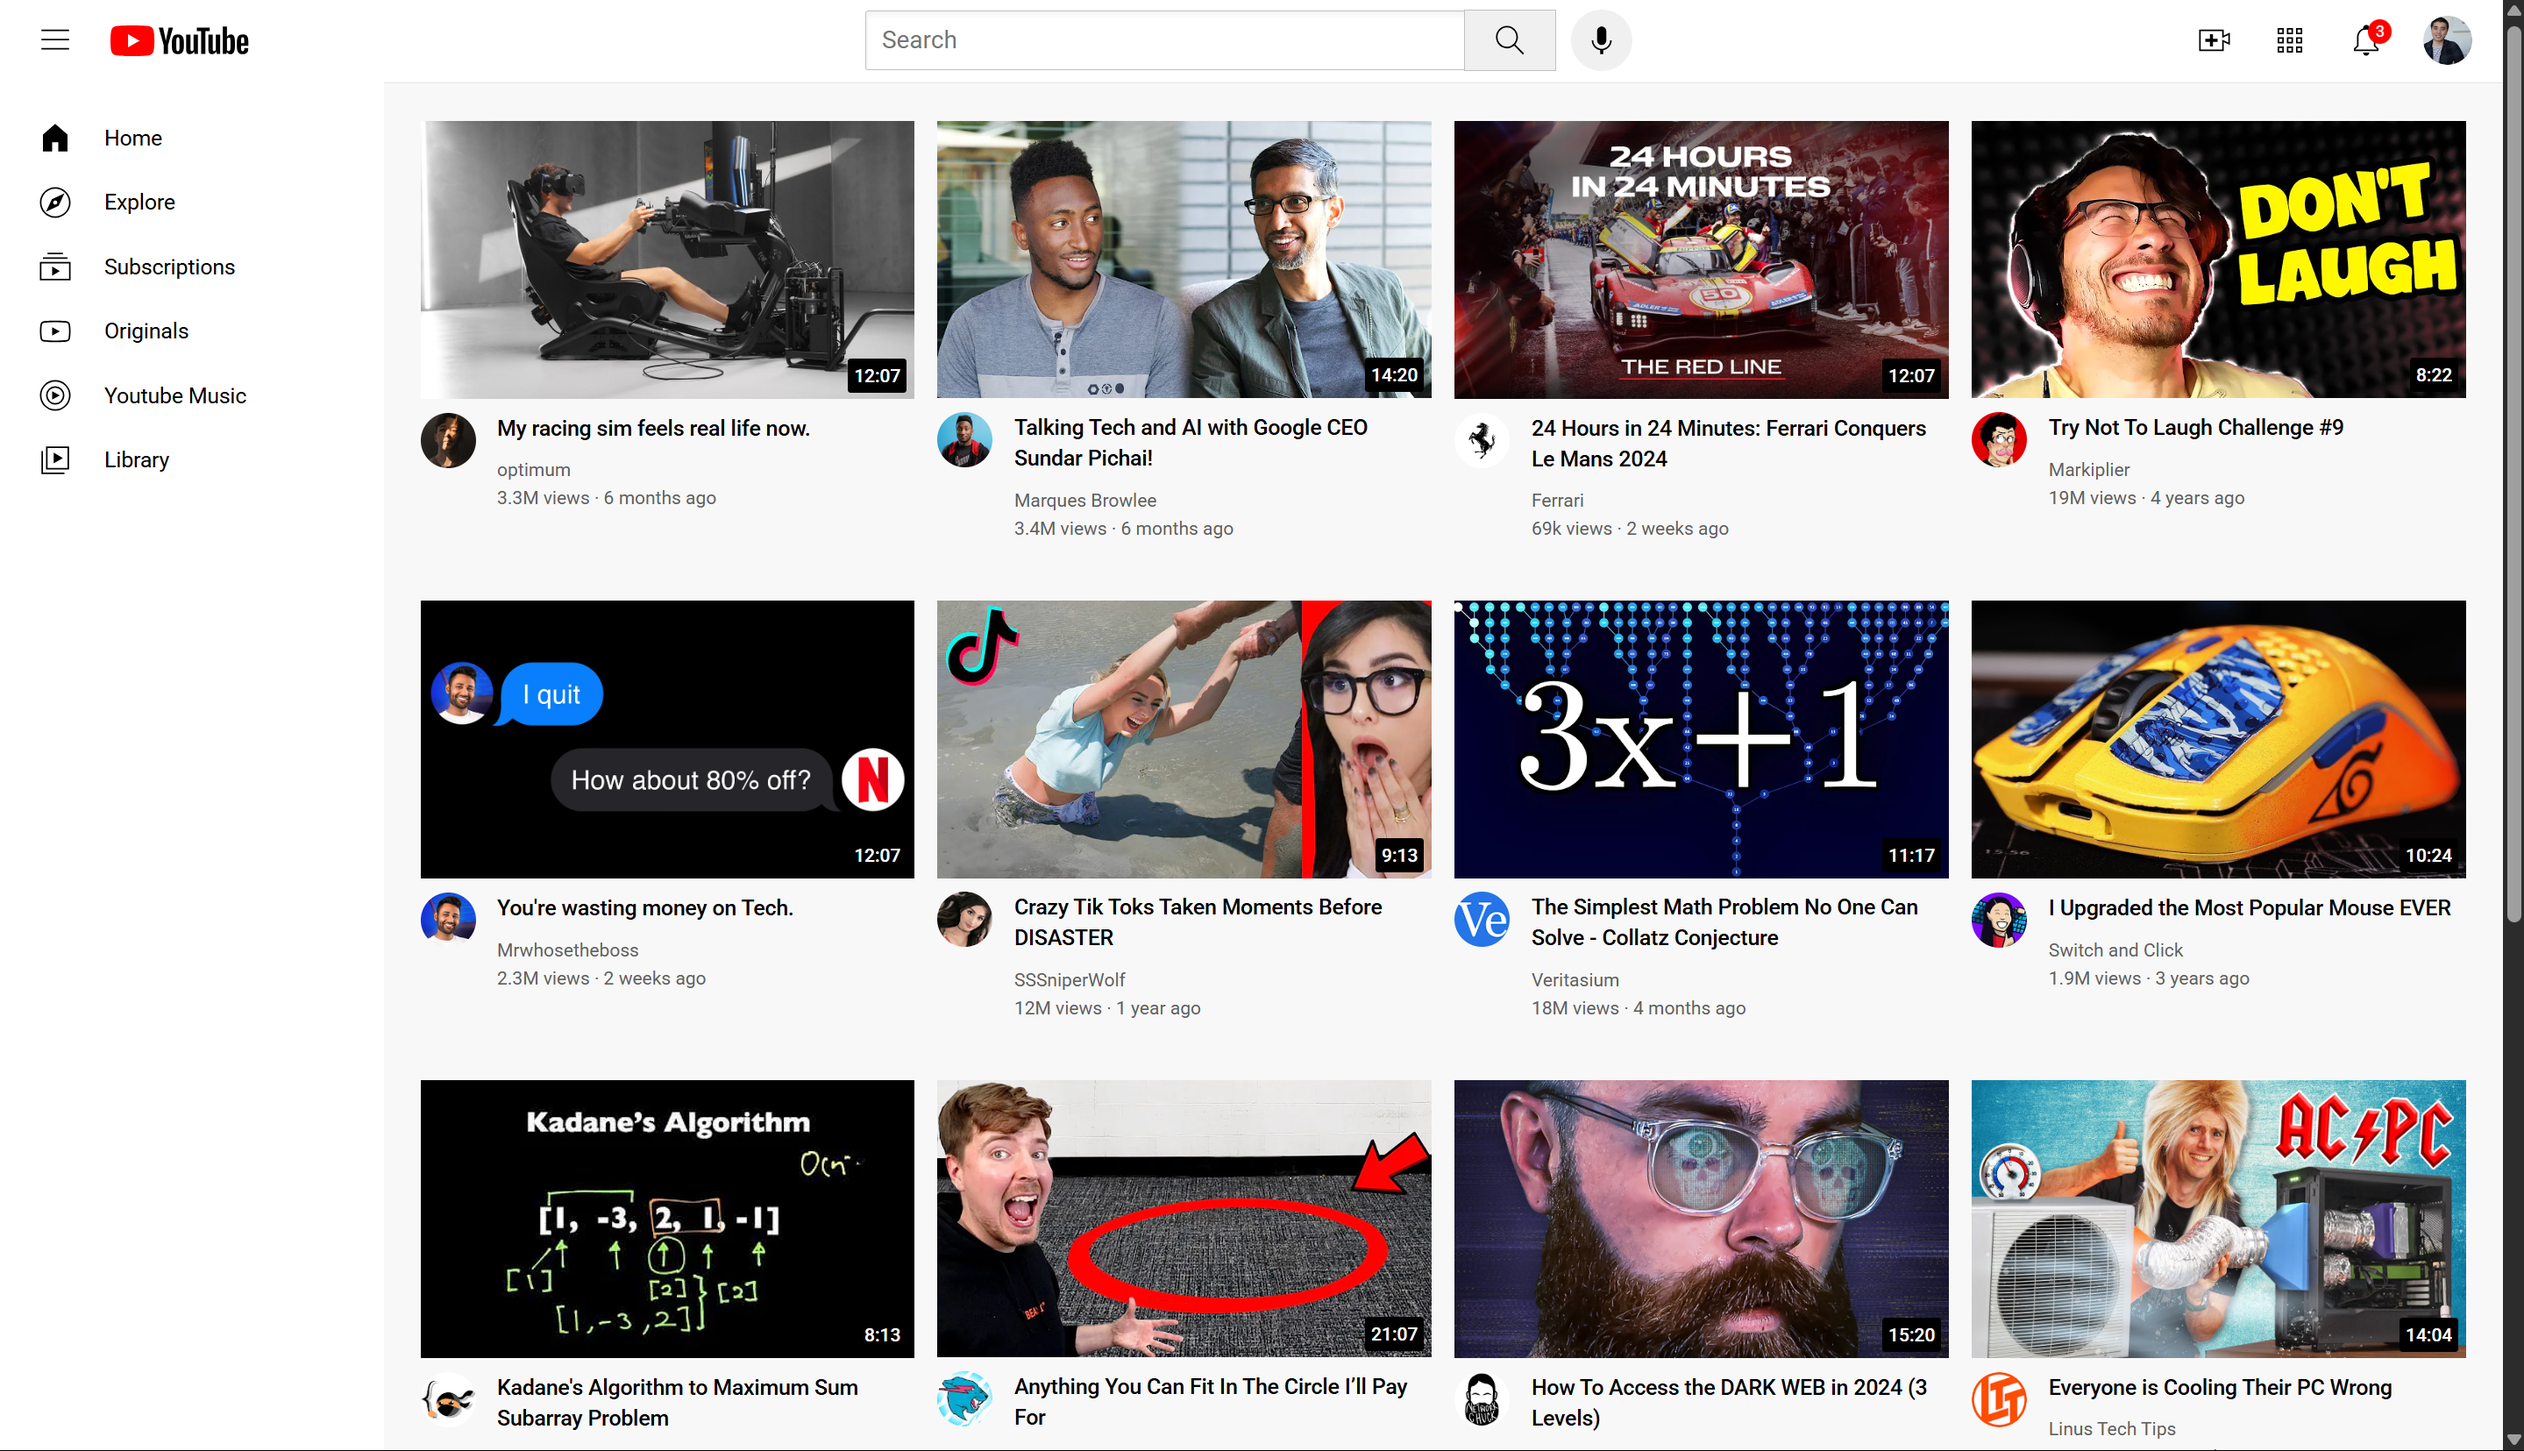
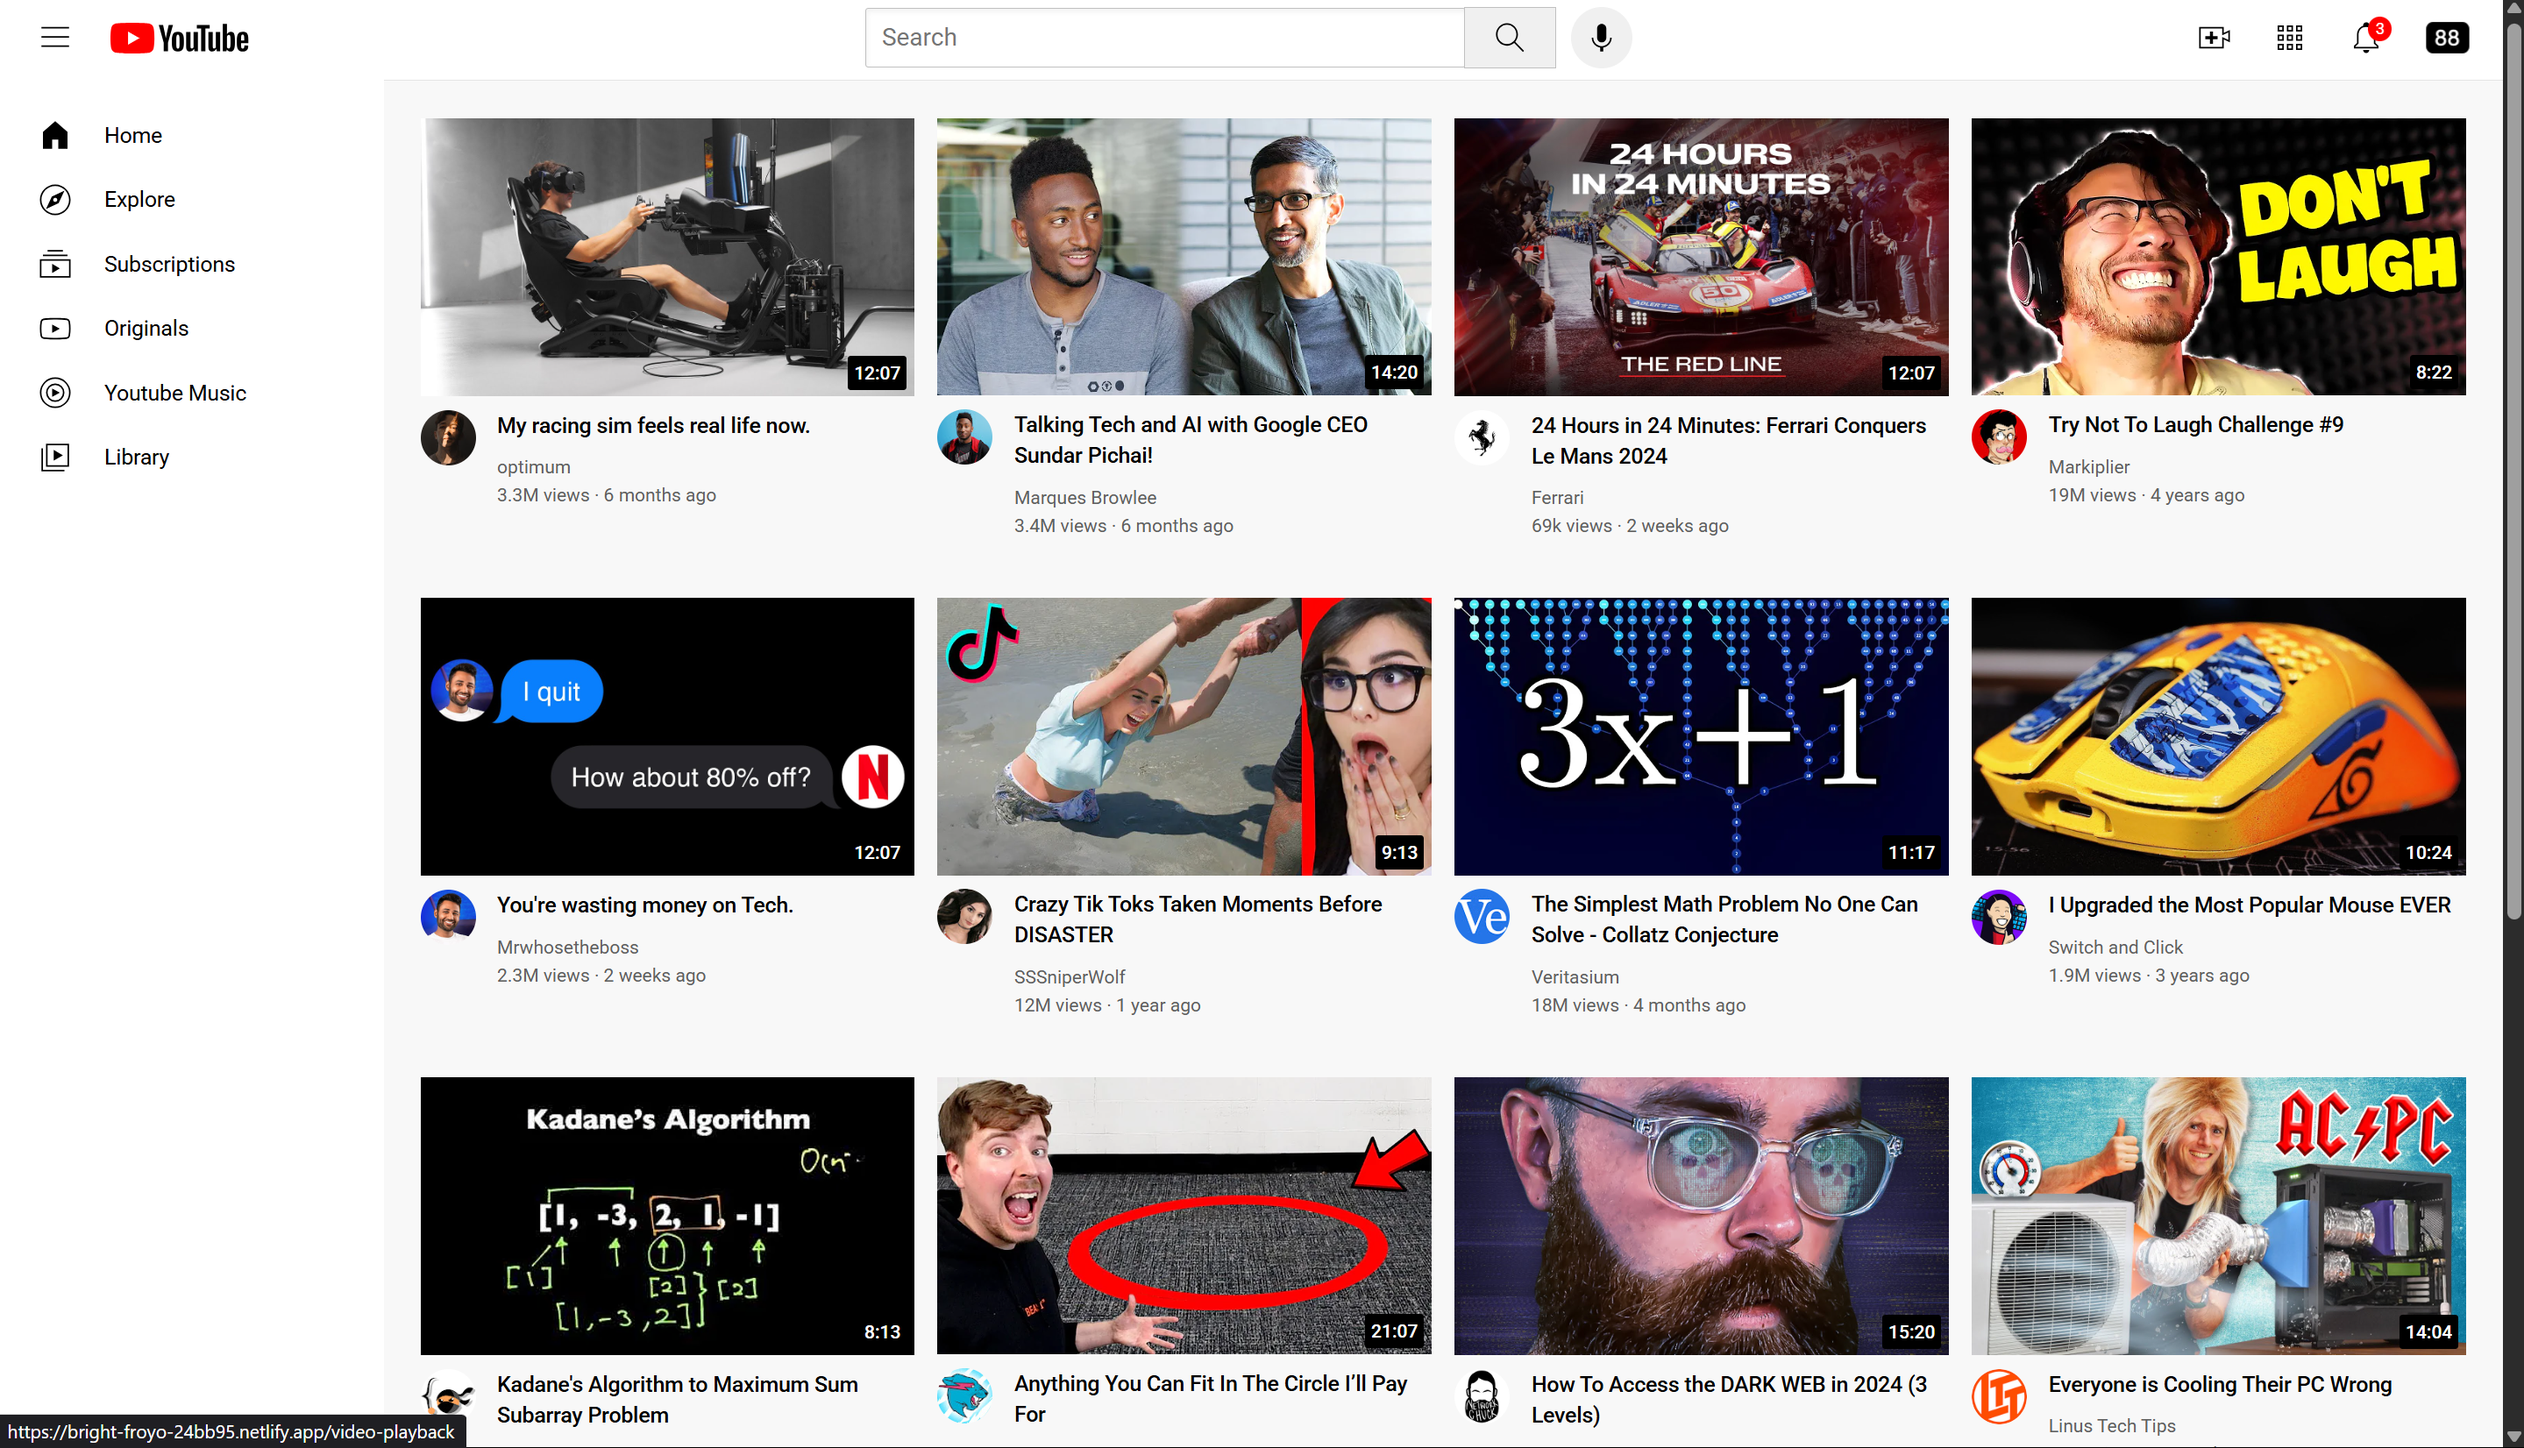
Updated Channel picture

diff --git a/video-playback.html b/video-playback.html
@@ -42,7 +42,7 @@
           <div class="tooltip">Notifications</div>
         </div>
         <div class="pro">
-          <img src="channel-pictures/my-channel.jpeg" class="channel-icon" />
+          <img src="channel-pictures/icons8-88-50.png" class="channel-icon" />
           <div class="tooltip">Profile</div>
         </div>
       </div>
